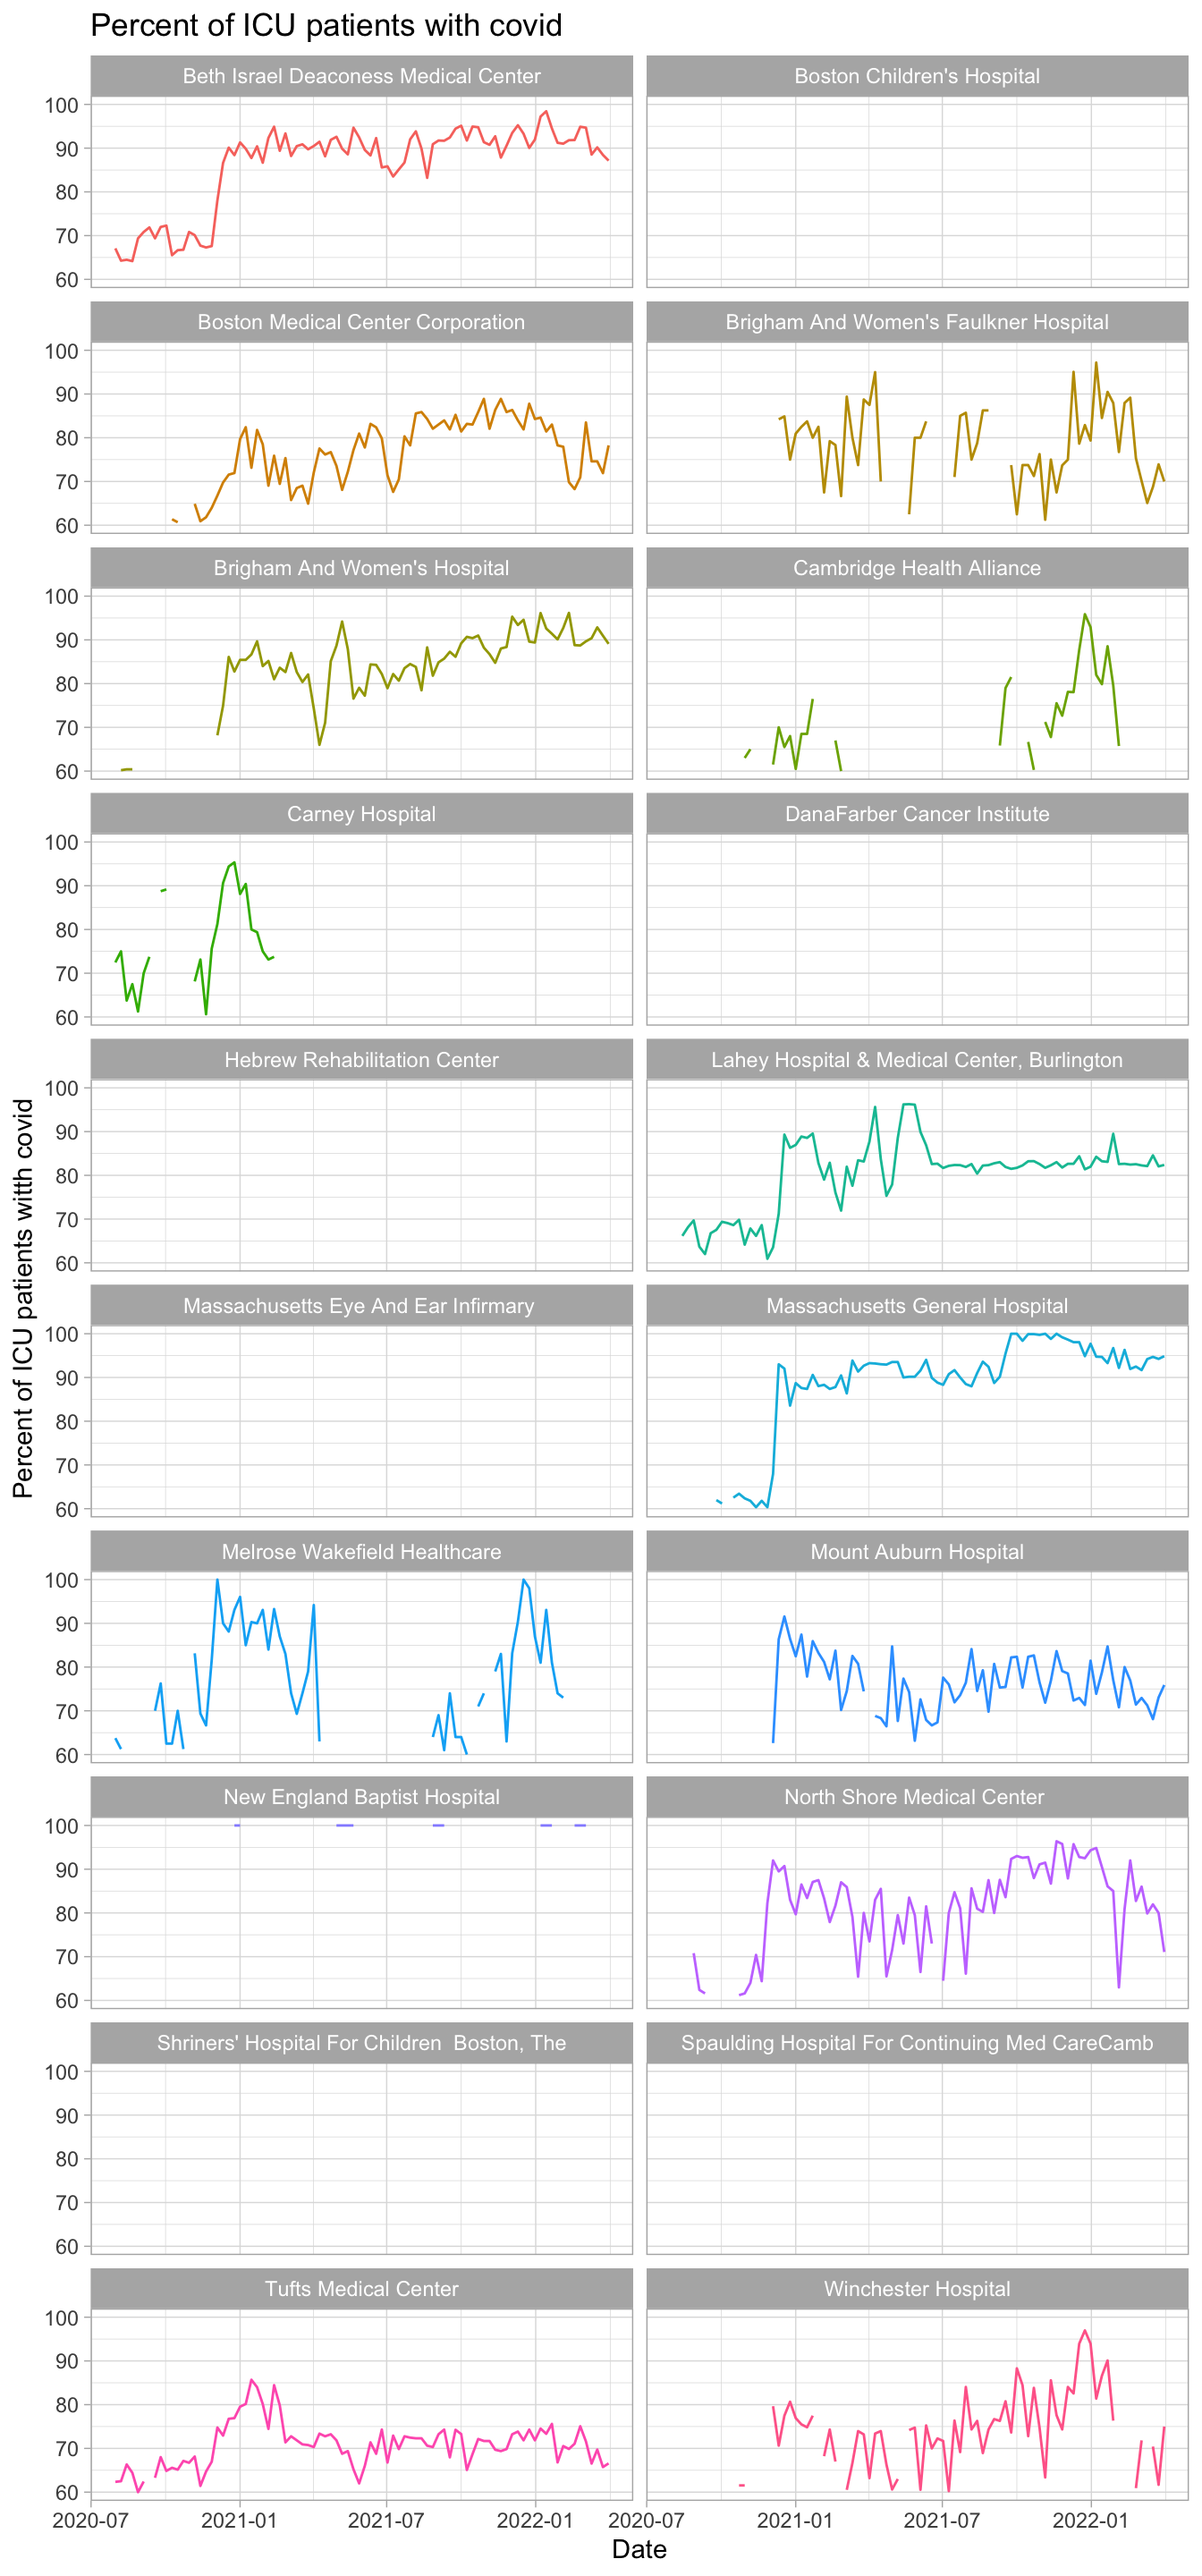
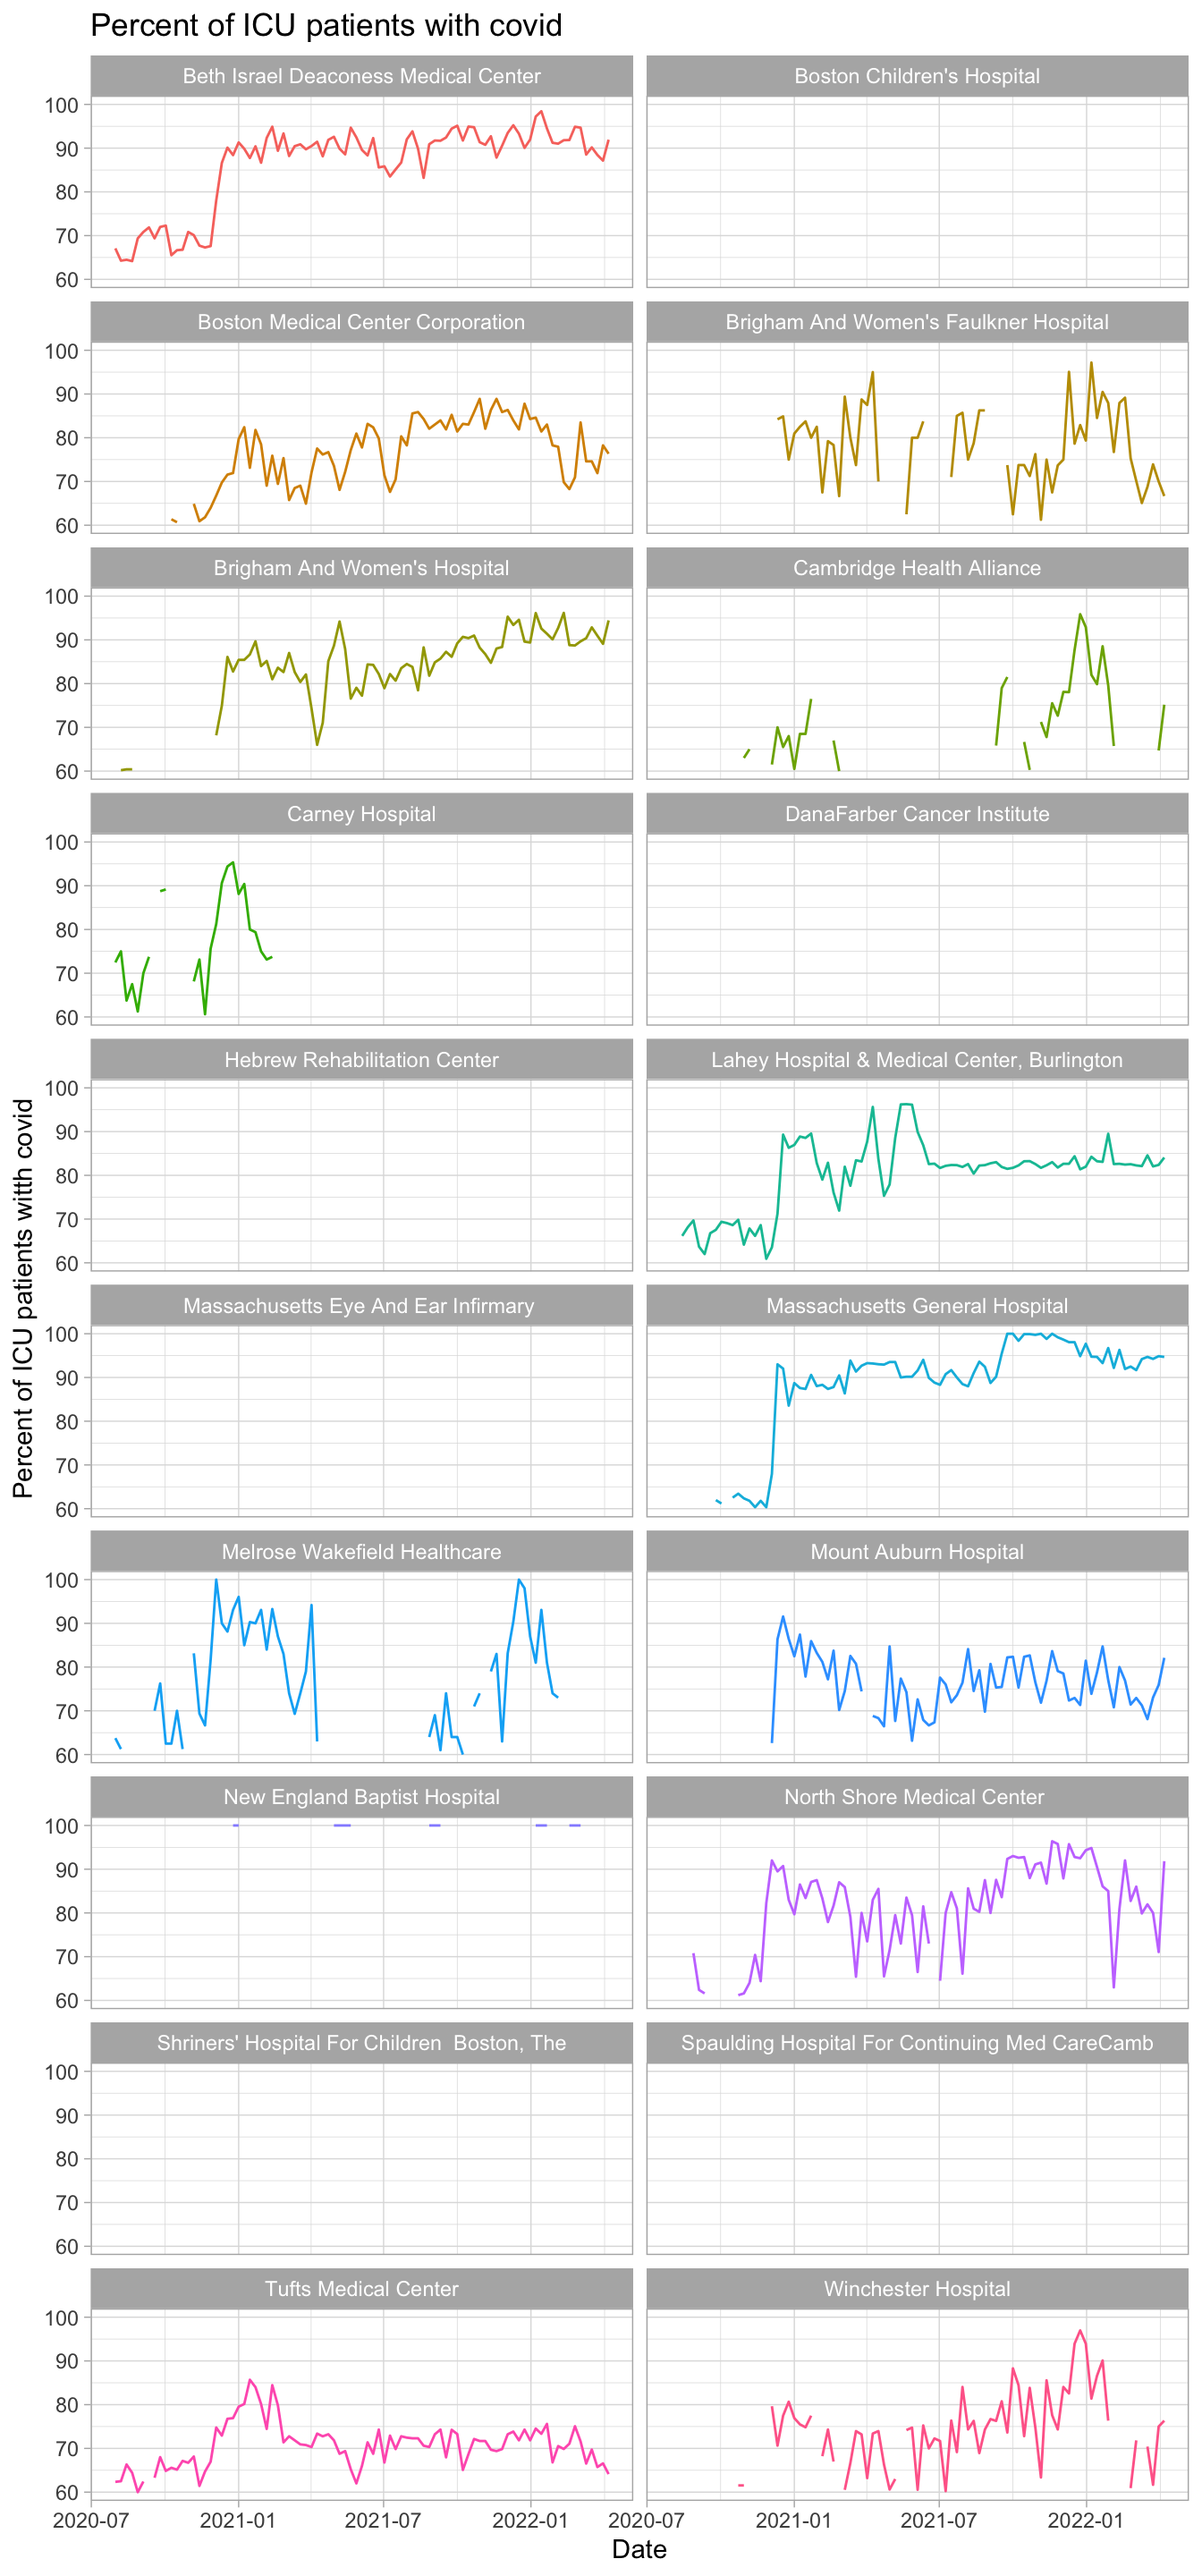
updated data

diff --git a/docs/index.html b/docs/index.html
@@ -290,7 +290,7 @@ $(document).ready(function () {
 <p><img src="index_files/figure-html/unnamed-chunk-3-1.png" width="672" /></p>
 <div id="hospital-data" class="section level3">
 <h3>Hospital data</h3>
-<p>The US Department of Health and Human Services gives data on hospital usage. Here are data of ICU bed availability for hospitals in this area with at least 25 staffed ICU beds, using data from the week starting 2022-04-01.</p>
+<p>The US Department of Health and Human Services gives data on hospital usage. Here are data of ICU bed availability for hospitals in this area with at least 25 staffed ICU beds, using data from the week starting 2022-04-08.</p>
 <table>
 <thead>
 <tr class="header">
@@ -303,45 +303,45 @@ $(document).ready(function () {
 <tbody>
 <tr class="odd">
 <td align="left">Beth Israel Deaconess Medical Center</td>
-<td align="right">18</td>
-<td align="right">131</td>
-<td align="right">87</td>
+<td align="right">12</td>
+<td align="right">132</td>
+<td align="right">91</td>
 </tr>
 <tr class="even">
 <td align="left">Boston Children’s Hospital</td>
-<td align="right">6</td>
+<td align="right">9</td>
 <td align="right">107</td>
-<td align="right">94</td>
+<td align="right">92</td>
 </tr>
 <tr class="odd">
 <td align="left">Boston Medical Center Corporation</td>
-<td align="right">20</td>
-<td align="right">90</td>
-<td align="right">77</td>
+<td align="right">22</td>
+<td align="right">88</td>
+<td align="right">75</td>
 </tr>
 <tr class="even">
 <td align="left">Brigham And Women’s Hospital</td>
-<td align="right">11</td>
-<td align="right">156</td>
-<td align="right">93</td>
+<td align="right">6</td>
+<td align="right">160</td>
+<td align="right">96</td>
 </tr>
 <tr class="odd">
 <td align="left">Lahey Hospital &amp; Medical Center, Burlington</td>
-<td align="right">10</td>
-<td align="right">58</td>
-<td align="right">82</td>
+<td align="right">9</td>
+<td align="right">54</td>
+<td align="right">84</td>
 </tr>
 <tr class="even">
 <td align="left">Massachusetts General Hospital</td>
-<td align="right">9</td>
-<td align="right">147</td>
-<td align="right">94</td>
+<td align="right">8</td>
+<td align="right">151</td>
+<td align="right">95</td>
 </tr>
 <tr class="odd">
 <td align="left">Tufts Medical Center</td>
-<td align="right">54</td>
-<td align="right">127</td>
 <td align="right">58</td>
+<td align="right">129</td>
+<td align="right">55</td>
 </tr>
 </tbody>
 </table>
@@ -351,7 +351,7 @@ $(document).ready(function () {
 <p><img src="index_files/figure-html/unnamed-chunk-6-1.png" width="672" /></p>
 <p>And those intubated:</p>
 <p><img src="index_files/figure-html/unnamed-chunk-7-1.png" width="672" /></p>
-<p>Plotting percentage of ICU patients with covid over time (up to the week starting 2022-04-01). Some hospitals have much more frequently updated data than others; some is fairly gappy. This just plots the hospitals that average at least 25 staffed <em>adult</em> ICU beds per week.</p>
+<p>Plotting percentage of ICU patients with covid over time (up to the week starting 2022-04-08). Some hospitals have much more frequently updated data than others; some is fairly gappy. This just plots the hospitals that average at least 25 staffed <em>adult</em> ICU beds per week.</p>
 <p><img src="index_files/figure-html/unnamed-chunk-8-1.png" width="672" /></p>
 </div>
 

diff --git a/docs/individualhospitals.html b/docs/individualhospitals.html
@@ -294,45 +294,45 @@ $(document).ready(function () {
 <tbody>
 <tr class="odd">
 <td align="left">Beth Israel Deaconess Medical Center</td>
-<td align="right">18</td>
-<td align="right">131</td>
-<td align="right">87</td>
+<td align="right">12</td>
+<td align="right">132</td>
+<td align="right">91</td>
 </tr>
 <tr class="even">
 <td align="left">Boston Children’s Hospital</td>
-<td align="right">6</td>
+<td align="right">9</td>
 <td align="right">107</td>
-<td align="right">94</td>
+<td align="right">92</td>
 </tr>
 <tr class="odd">
 <td align="left">Boston Medical Center Corporation</td>
-<td align="right">20</td>
-<td align="right">90</td>
-<td align="right">77</td>
+<td align="right">22</td>
+<td align="right">88</td>
+<td align="right">75</td>
 </tr>
 <tr class="even">
 <td align="left">Brigham And Women’s Hospital</td>
-<td align="right">11</td>
-<td align="right">156</td>
-<td align="right">93</td>
+<td align="right">6</td>
+<td align="right">160</td>
+<td align="right">96</td>
 </tr>
 <tr class="odd">
 <td align="left">Lahey Hospital &amp; Medical Center, Burlington</td>
-<td align="right">10</td>
-<td align="right">58</td>
-<td align="right">82</td>
+<td align="right">9</td>
+<td align="right">54</td>
+<td align="right">84</td>
 </tr>
 <tr class="even">
 <td align="left">Massachusetts General Hospital</td>
-<td align="right">9</td>
-<td align="right">147</td>
-<td align="right">94</td>
+<td align="right">8</td>
+<td align="right">151</td>
+<td align="right">95</td>
 </tr>
 <tr class="odd">
 <td align="left">Tufts Medical Center</td>
-<td align="right">54</td>
-<td align="right">127</td>
 <td align="right">58</td>
+<td align="right">129</td>
+<td align="right">55</td>
 </tr>
 </tbody>
 </table>
